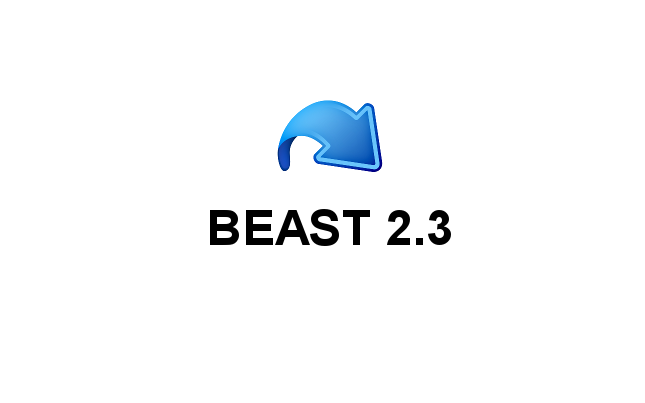
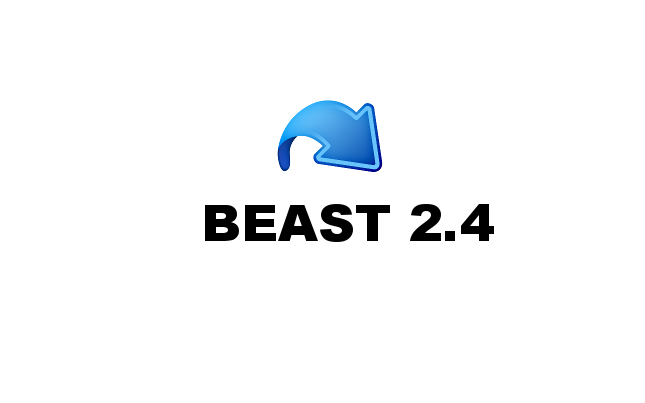
prerelease 2.4.0 #509

Changed region(s): [[0.3101, 0.5062, 0.7752, 0.6253]]

diff --git a/src/beast/evolution/likelihood/ThreadedTreeLikelihood.java b/src/beast/evolution/likelihood/ThreadedTreeLikelihood.java
@@ -73,7 +73,7 @@ public class ThreadedTreeLikelihood extends GenericTreeLikelihood {
     final public Input<Scaling> scalingInput = new Input<>("scaling", "type of scaling to use, one of " + Arrays.toString(Scaling.values()) + ". If not specified, the -beagle_scaling flag is used.", Scaling._default, Scaling.values());
     
     /** private list of likelihoods, to notify framework of TreeLikelihoods being created in initAndValidate() **/
-    final private Input<List<TreeLikelihood>> likelihoodsInput = new Input<>("xxx","",new ArrayList<>());
+    final private Input<List<TreeLikelihood>> likelihoodsInput = new Input<>("*","",new ArrayList<>());
     
     @Override
     public List<Input<?>> listInputs() {

diff --git a/src/beast/app/BEASTVersion.java b/src/beast/app/BEASTVersion.java
@@ -19,9 +19,9 @@ public class BEASTVersion extends Version {
     /**
      * Version string: assumed to be in format x.x.x
      */
-    private static final String VERSION = "2.3.2";
+    private static final String VERSION = "2.4.0";
 
-    private static final String DATE_STRING = "2002-2015";
+    private static final String DATE_STRING = "2002-2016";
 
     private static final boolean IS_PRERELEASE = true;
 
